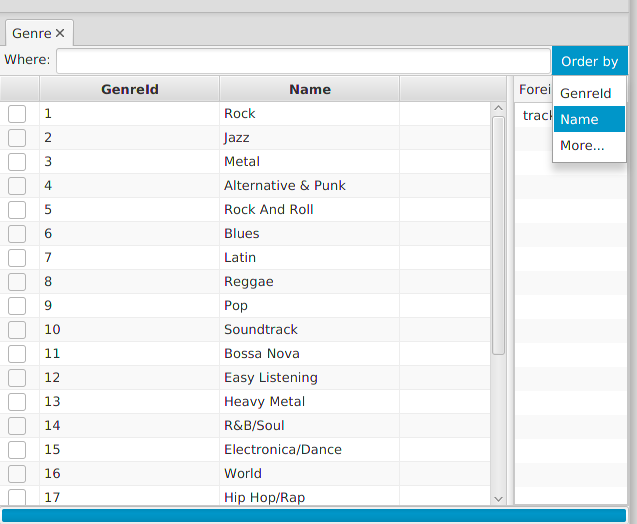
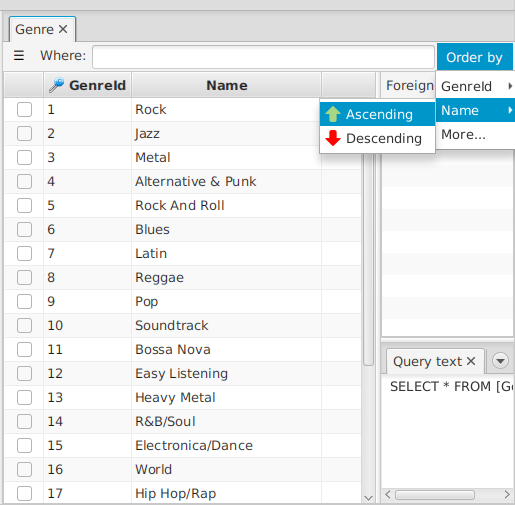
updated the docs after the last release

Changed region(s): [[0.0, 0.0, 1.0, 1.0], [0.2485, 0.2079, 0.5592, 0.5941]]

diff --git a/docs/Vertical-row-view.md b/docs/Vertical-row-view.md
@@ -11,7 +11,7 @@ categories: [GUI]
 
 On an open table tab, it is possible to open the so called **Vertical row view**.
 Just double-click on a row. 
-Also you can just select the row you want to see in detail, press Enter, open the table menu and select **Row details**, or press Ctrl-R. 
+Also you can just select the row you want to see in detail, press Enter, open the table menu and select **Row details**. 
 
 ![Table menu](images/accelerators.png)
 
@@ -24,11 +24,17 @@ The vertical view shows vertically all the fields of the selected row. This is b
 - The table contains so **many columns** that it is not possible to see them all at the same time in the table, forcing you to scroll horizontally. The vertical row view can only show a single row, but there is a good chance that it can show all its fields without need to scroll.
 - The table contains very **large text fields**, for example LOBs. For a field of this kind only a part of it is visible in the table (normally the first line),  but the entire field is visible in the vertical row view, with the help of  scrollbars. 
 
-The vertical row view can be shown or hidden very easily (it is just needed to press Ctrl-R) and is supposed to help only when there is a need for it, without being annoying.
+The vertical row view can be shown or hidden very easily (it is just needed to press Enter) and is supposed to help only when there is a need for it, without being annoying.
 
 Additionally it is possible to copy the content of individual fields from the vertical row, differently from the [copy menu](Copy-Data) of the table.
 
-The vertical row displays the whole content of the fields of the row, also when they are big.
+With the menu close to each text or binary field, it is possible to:
+* **expand** the field to see better its content when it is multiline.
+* **open** a dialog that shows the wrapped content of the field, useful when the content is very large.
+* **download** the content of the field, as a **textual** file for text fields and as a **binary** file for binary fields (for example images)
+
+![Vertical Row View Menu](images/verticalrowviewmenu.png)
+
 
 ### Filter fields
 

diff --git a/docs/Order-By.md b/docs/Order-By.md
@@ -9,7 +9,7 @@ categories: [GUI]
 
 ## Order by
 
-From version 1.10 it is possible to open a new tab from an existing one applying an ORDER BY clause to the tab's query.
+It is possible to open a new tab from an existing one applying an ORDER BY clause to the tab's query.
 This can be beneficial in all cases in which the table contains more than 500 rows (which means that dbtarzan cannot load it completely) and there is not a known WHERE clause that can be used to show only the meaningful rows.
 In this case applying ORDER BY clauses can help exploring the data in the table. 
 
@@ -17,9 +17,9 @@ To apply an ORDER BY clause to the existing tab use the **Order By** menu on the
 
 ![order by menu](images/orderbymenu.png)
 
-Choosing one column name from the menu the new tab will be ordered by that column in ascending order.
+Choosing one column name from the menu and the **order direction** from the submenu, the new tab will be ordered by that column in the selected order, ascending or descending.
 This can be enough in most cases.
-If instead you need to sort the table using multiple columns or in descending order, clicking on the menu's **More...** option, a dialog opens:
+If instead you need to sort the table using multiple columns, clicking on the menu's **More...** option, a dialog opens:
 
 ![order by dialog](images/orderbydialog.png)
 

diff --git a/docs/Table-tab.md b/docs/Table-tab.md
@@ -29,17 +29,19 @@ From this tab:
 - using the [where clause](Where-clause) on the top you can open a new tab containing a **subset** of the results.
 - using the [order by](Order-By) menu on the top right, you can open a new tab with the same result **ordered** in a different way.
 
-### Menu
+### Button panel
 
-The menu by on the left of the where clause gives the possibility to:
+The button by on the left of the where clause opens a button panel with buttons with the follwing functionalities:
  - **close** this or other tabs
  - **check** or uncheck all rows 
  - open the [row details](Vertical-row-view) or vertical row, to have a better view of the **details** of a specific row.
+ - **refresh** this tab. Actually it closes the current tab and opens a new one with the same content updated.
 
 ![Accelerators](images/accelerators.png)
 
-All the menu items have a **key combination** associated.   
+All the buttons a **key combination** associated that is displayed as a tooltip.   
 For example to **close this table tab** you just have to click Ctrl-Delete.
+By the way it is possible to refresh the tab without closing the exising tab, by clicking Shift-Ctrl-R.
 
 ### Information
 
